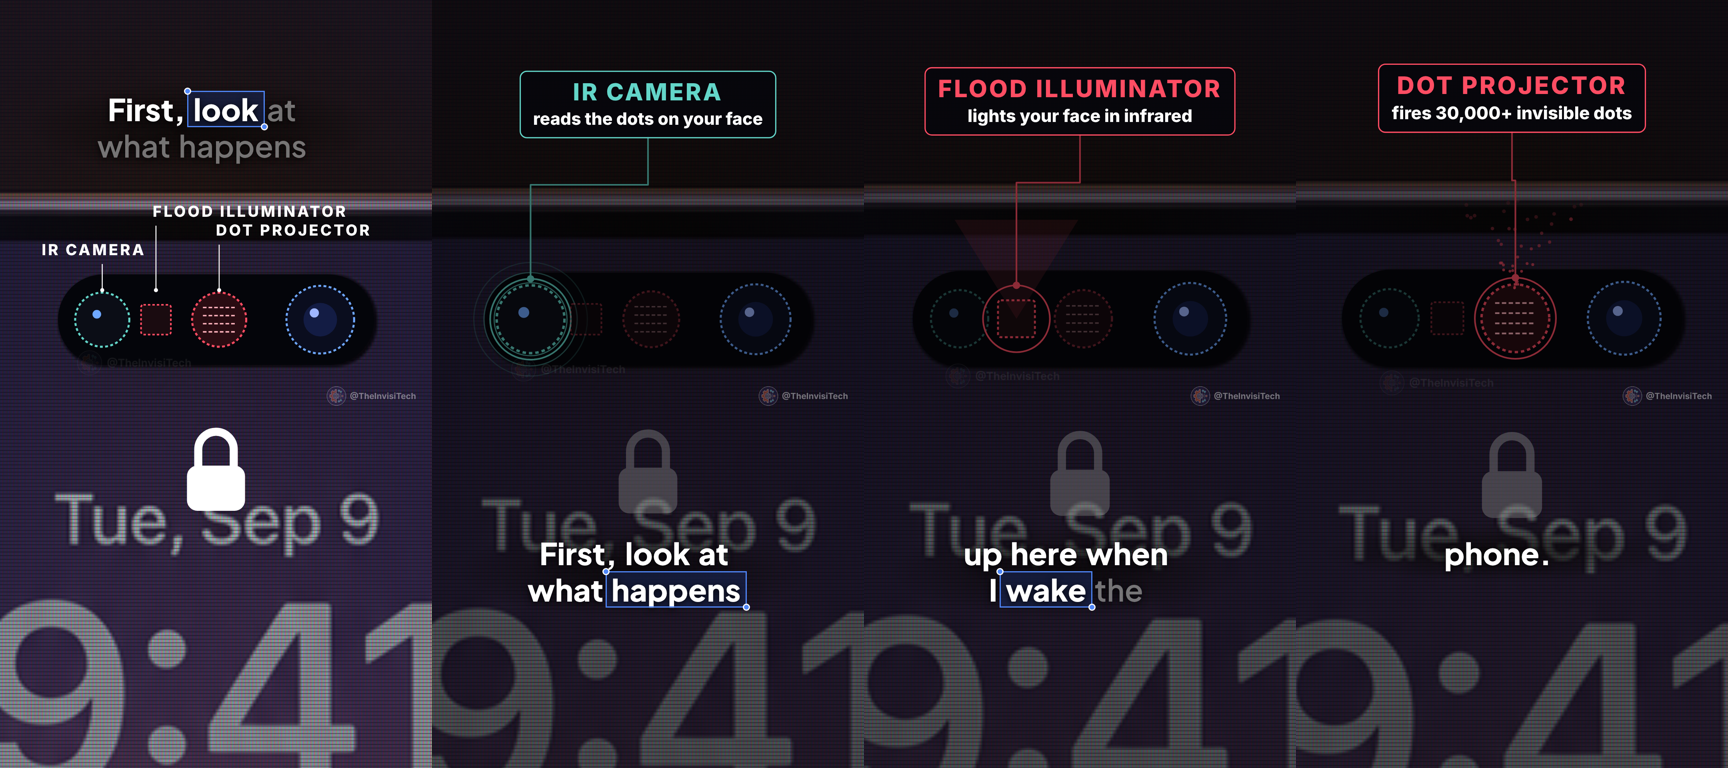
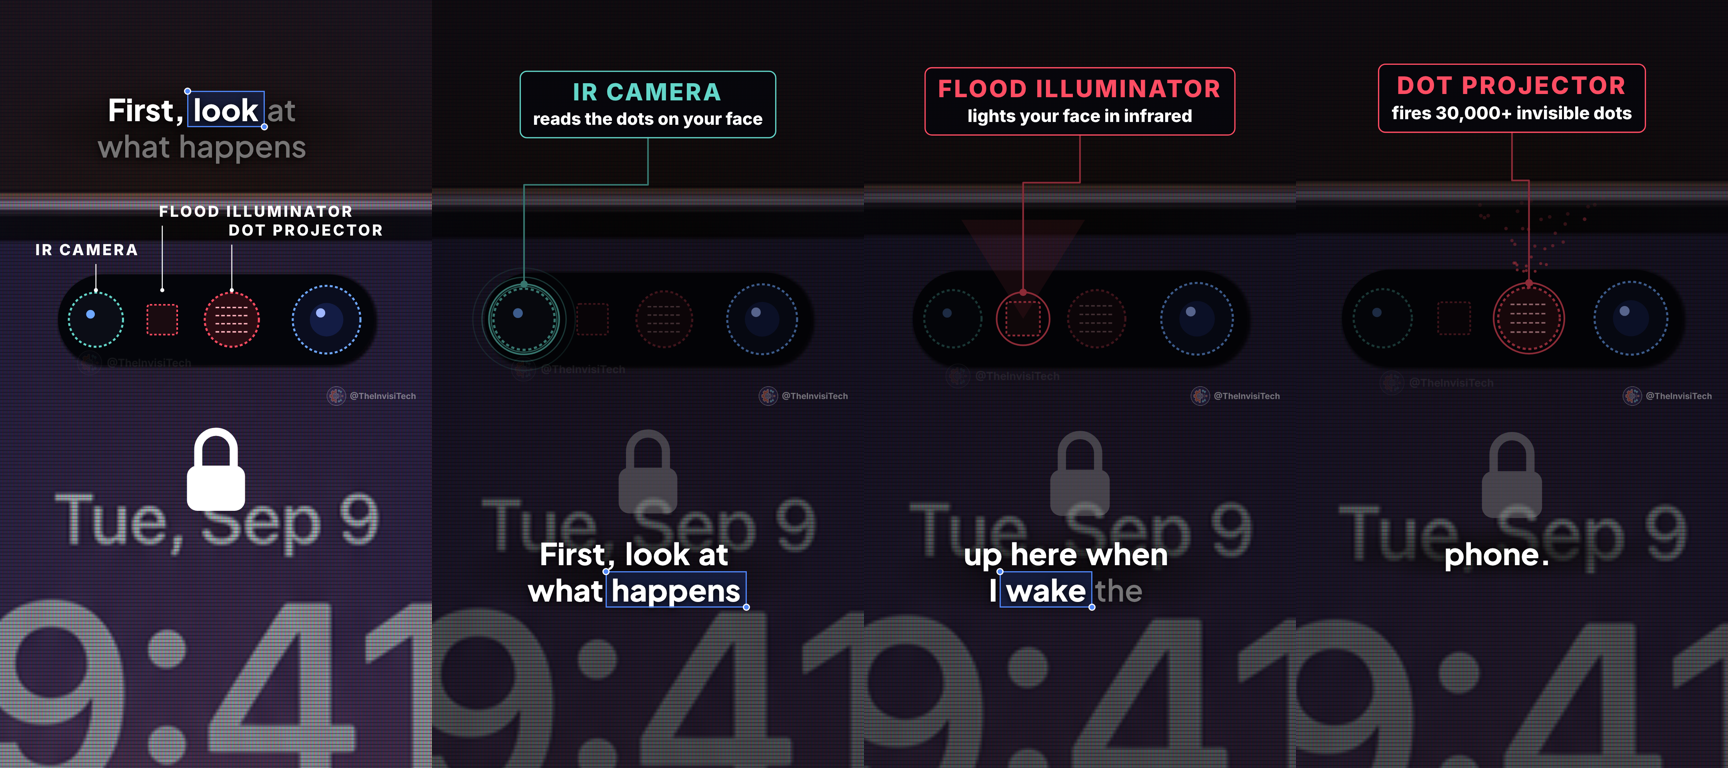
Mirror Short: even spacing between the TrueDepth parts in the island
Claude-Session: https://claude.ai/code/session_01GXcKc5WnFrVWBsHLe8YpAy

diff --git a/face-id/mirror-short/src/scenes/HandPhone.tsx b/face-id/mirror-short/src/scenes/HandPhone.tsx
@@ -24,18 +24,18 @@ export const HandPhone: React.FC<{ f: number }> = ({ f }) => {
   const on = ramp(f, 68, 74);                           // crisp drawn island replaces the soft photo one
   const part = (fx: number) => left + w * fx;           // x of a part inside the island
   const PARTS = [
-    { fx: 0.14, label: 'IR CAMERA', ly: 640, at: 76, anchor: 'start' as const, lx: -150 },
-    { fx: 0.31, label: 'FLOOD ILLUMINATOR', ly: 545, at: 81, anchor: 'start' as const, lx: -8 },
-    { fx: 0.51, label: 'DOT PROJECTOR', ly: 592, at: 86, anchor: 'start' as const, lx: -8 },
+    { fx: 0.12, label: 'IR CAMERA', ly: 640, at: 76, anchor: 'start' as const, lx: -150 },
+    { fx: 0.33, label: 'FLOOD ILLUMINATOR', ly: 545, at: 81, anchor: 'start' as const, lx: -8 },
+    { fx: 0.55, label: 'DOT PROJECTOR', ly: 592, at: 86, anchor: 'start' as const, lx: -8 },
   ];
   const r = h * 0.3;
   const LIFT = 0,       // the parts stay in the island; the card points at the one being explained
      CARD = 27, active = f < 106 ? -1 : Math.min(2, Math.floor((f - 106) / CARD));   // each part is explained for 0.9 s
   const MODS = [
-    { fx: 0.14, k: 1, at: 76, col: TEAL, label: 'IR CAMERA', does: 'reads the dots on your face' },
-    { fx: 0.31, k: 0.8, at: 79, col: RED, label: 'FLOOD ILLUMINATOR', does: 'lights your face in infrared' },
-    { fx: 0.51, k: 1, at: 84, col: RED, label: 'DOT PROJECTOR', does: 'fires 30,000+ invisible dots' },
-    { fx: 0.83, k: 1.25, at: 76, col: BLUE, label: 'FRONT CAMERA', does: '' },
+    { fx: 0.12, k: 1, at: 76, col: TEAL, label: 'IR CAMERA', does: 'reads the dots on your face' },
+    { fx: 0.33, k: 0.72, at: 79, col: RED, label: 'FLOOD ILLUMINATOR', does: 'lights your face in infrared' },
+    { fx: 0.55, k: 1, at: 84, col: RED, label: 'DOT PROJECTOR', does: 'fires 30,000+ invisible dots' },
+    { fx: 0.85, k: 1.25, at: 76, col: BLUE, label: 'FRONT CAMERA', does: '' },
   ];
   return (
     <AbsoluteFill style={{ backgroundColor: '#000', overflow: 'hidden' }}>
@@ -51,12 +51,12 @@ export const HandPhone: React.FC<{ f: number }> = ({ f }) => {
         <rect x={left} y={top} width={w} height={h} rx={h / 2} fill="#04050a" />
         {/* tear-down, on the phone itself: from TEAR the parts are pulled straight up out of the island, leaving their
             sockets behind, and each one is explained in turn */}
-        {MODS.map((m, i) => { const x = part(m.fx), tr = ramp(f, TEAR + i * 2, TEAR + 10 + i * 2, 0, 1, out3), act = active === i, sc = (act ? 1.18 + 0.04 * Math.sin(f / 2) : 1), y = cy - LIFT * tr;
+        {MODS.map((m, i) => { const x = part(m.fx), tr = ramp(f, TEAR + i * 2, TEAR + 10 + i * 2, 0, 1, out3), act = active === i, sc = (act ? 1.07 + 0.03 * Math.sin(f / 2) : 1), y = cy - LIFT * tr;
           return (
             <g key={m.label}>
               {act && <g opacity={ramp(f, 106 + i * CARD, 110 + i * CARD)}>
-                <path d={`M 540 352 V 470 H ${x} V ${cy - r * m.k * sc - 16}`} fill="none" stroke={m.col} strokeWidth={4} strokeLinejoin="round" />
-                <circle cx={x} cy={cy - r * m.k * sc - 16} r={9} fill={m.col} /><circle cx={x} cy={cy} r={r * m.k * sc + 16} fill="none" stroke={m.col} strokeWidth={4} />
+                <path d={`M 540 352 V 470 H ${x} V ${cy - r * m.k * sc - 11}`} fill="none" stroke={m.col} strokeWidth={4} strokeLinejoin="round" />
+                <circle cx={x} cy={cy - r * m.k * sc - 11} r={9} fill={m.col} /><circle cx={x} cy={cy} r={r * m.k * sc + 11} fill="none" stroke={m.col} strokeWidth={4} />
               </g>}
               <g transform={`translate(${x} ${y}) scale(${sc})`} opacity={ramp(f, m.at, m.at + 4) * (active >= 0 && !act && i < 3 ? 0.45 : 1)}>
                 {i === 0 && <><circle r={r} fill="#0b0d16" stroke={TEAL} strokeWidth={5} strokeDasharray="7 6" /><circle cx={-r * 0.2} cy={-r * 0.2} r={r * 0.16} fill={BLUE} /></>}
